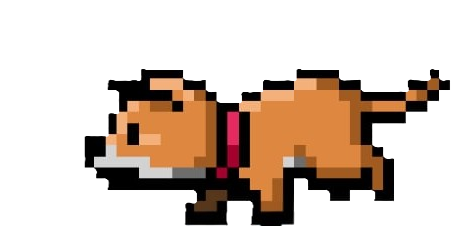
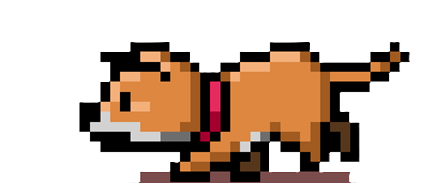
fixed shiba, added hurdle

diff --git a/field-track/config/assets.js b/field-track/config/assets.js
@@ -6,10 +6,14 @@ const shiba1 = new Image();
 const shiba2 = new Image();
 const shiba3 = new Image();
 const shiba4 = new Image();
+const shiba5 = new Image();
+const shiba6 = new Image();
 shiba1.src = '../assets/img/shiba-1.png';
 shiba2.src = '../assets/img/shiba-2.png';
 shiba3.src = '../assets/img/shiba-3.png';
 shiba4.src = '../assets/img/shiba-4.png';
+shiba5.src = '../assets/img/shiba-5.png';
+shiba6.src = '../assets/img/shiba-6.png';
 // corgi
 const corgi1 = new Image();
 const corgi2 = new Image();
@@ -32,6 +36,9 @@ basket_ball.src = '../assets/img/basket-ball.png';
 // volley
 const volley_ball = new Image();
 volley_ball.src = '../assets/img/volley-ball.png';
+// hurdle
+const hurdle = new Image();
+hurdle.src = '../assets/img/hurdle.png';
 // dave
 const dave1 = new Image();
 const dave2 = new Image();
@@ -114,6 +121,7 @@ export const obstacleAssets = {
     //     isAnimated: false,
     //     probability: 1,
     // },
+
     cone: {
         img: cone,
         width: boardWidth * SCALE.CONE_WIDTH_RATIO,
@@ -124,8 +132,18 @@ export const obstacleAssets = {
         isAnimated: false,
         probability: 0.2,
     },
+    hurdle: {
+        img: hurdle,
+        width: boardWidth * SCALE.HURDLE_WIDTH_RATIO,
+        get height() {
+            return this.width * SCALE.HURDLE_ASPECT_RATIO;
+        },
+        speed: 4,
+        isAnimated: false,
+        probability: 1,
+    },
     shiba: {
-        frames: [shiba1, shiba2, shiba3, shiba4],
+        frames: [shiba1, shiba2, shiba3, shiba4, shiba5, shiba6],
         width: boardWidth * SCALE.SHIBA_WIDTH_RATIO,
         get height() {
             return this.width * SCALE.SHIBA_ASPECT_RATIO;

diff --git a/field-track/game.js b/field-track/game.js
@@ -5,7 +5,7 @@ import EntityManager from "./entities/entityManager.js";
 import SpawnerManager from "./utils/spawnerManager.js";
 import { obstacleAssets, midgroundAssets, backgroundAssets } from "./config/assets.js";
 import createHitBox from "./utils/hitBox.js";
-import { pause, resume, gameOver, setupResetButtonEvents } from "./utils/gameFunction.js";
+import { pause, resume, gameOver} from "./utils/gameFunction.js";
 import { gameState } from "./config/gameState.js";
 import ScoreManager from "./utils/scoreManager.js";
 import { startGame } from "./utils/gameFunction.js";
@@ -55,12 +55,11 @@ window.onload = function () {
     context.textBaseline = "middle";   // vertical center
     context.fillText("PRESS SPACE TO START", boardWidth / 2, boardHeight / 2);
 
-    setupResetButtonEvents(board, context);
 
     document.addEventListener('keydown', (e) => {
         if (gameState.waitingToStart && e.code === "Space") {
-            bgm.play();      // 🎵 start background music
-            startGame();     // ▶ start the game
+            bgm.play();
+            startGame();
             return;
         }
 
@@ -69,8 +68,7 @@ window.onload = function () {
                 if (gameState.isRunning) player.jump();
                 break;
             case 'KeyT':
-                console.log(gameState.testing);
-                gameState.testing = !(gameState.testing);
+                gameState.toggleTesting();
             case 'KeyP':
                 if (!gameState.waitingToStart) {
                     gameState.isRunning ? pause() : resume();

diff --git a/field-track/utils/gameFunction.js b/field-track/utils/gameFunction.js
@@ -52,21 +52,3 @@ export function startGame() {
     gameState.isRunning = true;
     gameState.animationId = requestAnimationFrame(gameLoop);
 }
-
-// ⛔ Reset button removed, but restartGame kept (optional)
-export function restartGame() {
-    gameState.gameOver = false;
-    gameState.isRunning = true;
-
-    entityManager.clear();
-    spawnerManager.reset();
-    player.reset();
-
-    gameState.reset();
-    gameState.animationId = requestAnimationFrame(gameLoop);
-}
-
-// ⛔ This function no longer does anything because reset button is removed
-export function setupResetButtonEvents(board, context) {
-    // intentionally empty
-}

diff --git a/field-track/utils/hitBoxConfig.js b/field-track/utils/hitBoxConfig.js
@@ -11,6 +11,12 @@ export const HITBOX_CONFIG = {
         widthFactor: 0.65,
         heightFactor: 1
     },
+     hurdle: {
+        offsetX: 0.1,
+        offsetY: 0.15,
+        widthFactor: 0.7,
+        heightFactor: 0.75
+    },
     shiba: {
         offsetX: 0.15,
         offsetY: 0.25,
@@ -25,13 +31,13 @@ export const HITBOX_CONFIG = {
     },
     dave: {
         offsetX: 0.2,
-        offsetY: 0,
+        offsetY: 0.02,
         widthFactor: 0.6,
         heightFactor: 1,
     },
     john: {
         offsetX: 0.2,
-        offsetY: 0,
+        offsetY: 0.02,
         widthFactor: 0.6,
         heightFactor: 1,
     },

diff --git a/field-track/config/scale.js b/field-track/config/scale.js
@@ -6,13 +6,15 @@ export const SCALE = {
     STUDENT_WIDTH_RATIO: 0.1,
     STUDENT_ASPECT_RATIO: 269 / 209,
     SHIBA_WIDTH_RATIO: 0.15,
-    SHIBA_ASPECT_RATIO: 226 / 452,
+    SHIBA_ASPECT_RATIO: 183 / 436,
     CORGI_WIDTH_RATIO: 0.1,
     CORGI_ASPECT_RATIO: 260 / 360,
     CONE_WIDTH_RATIO: 0.05,
     CONE_ASPECT_RATIO: 138 / 90,
     CART_WIDTH_RATIO: 0.15,
     CART_ASPECT_RATIO: 80 / 104,
+    HURDLE_WIDTH_RATIO: 0.15,
+    HURDLE_ASPECT_RATIO: 280 / 417,
     HUMAN_WIDTH_RATIO: 0.1,
     HUMAN_ASPECT_RATIO: 196 / 130,
     CYLING_MAN_WIDTH_RATIO: 0.15,
